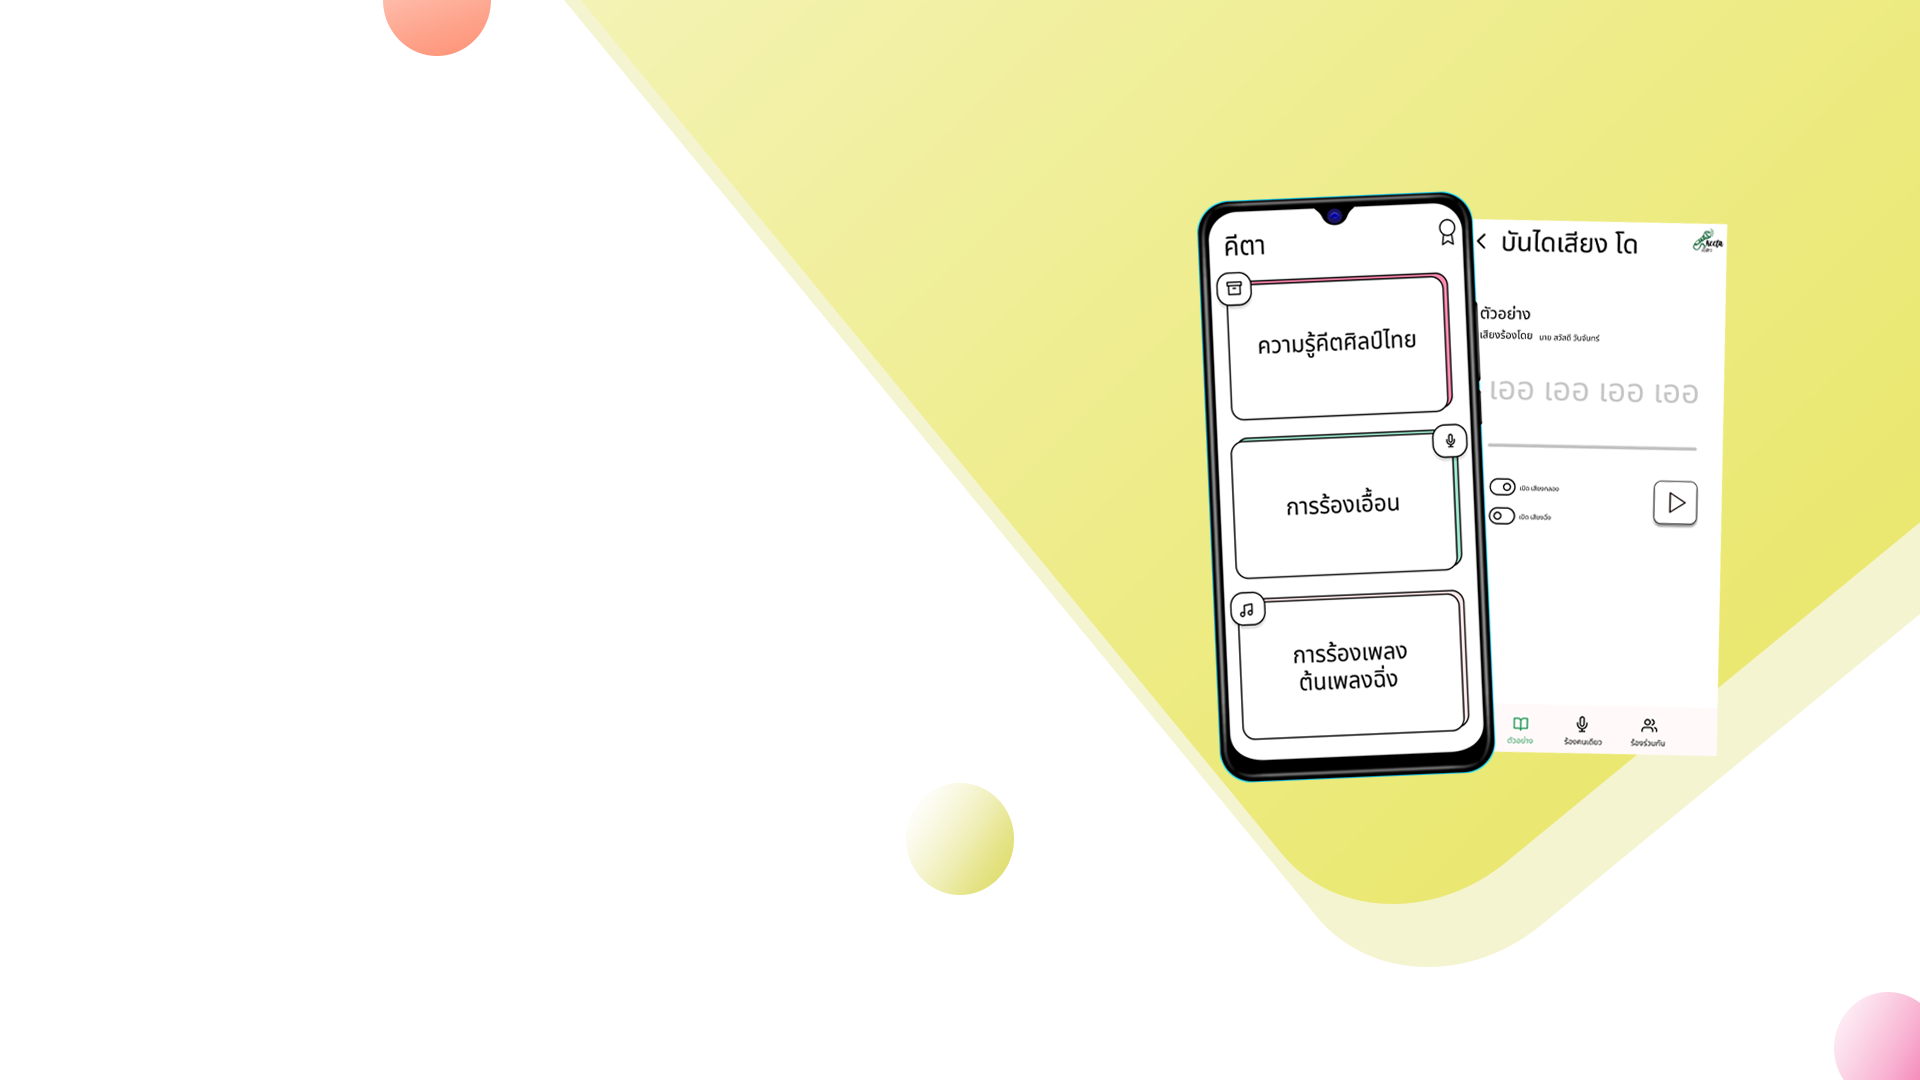
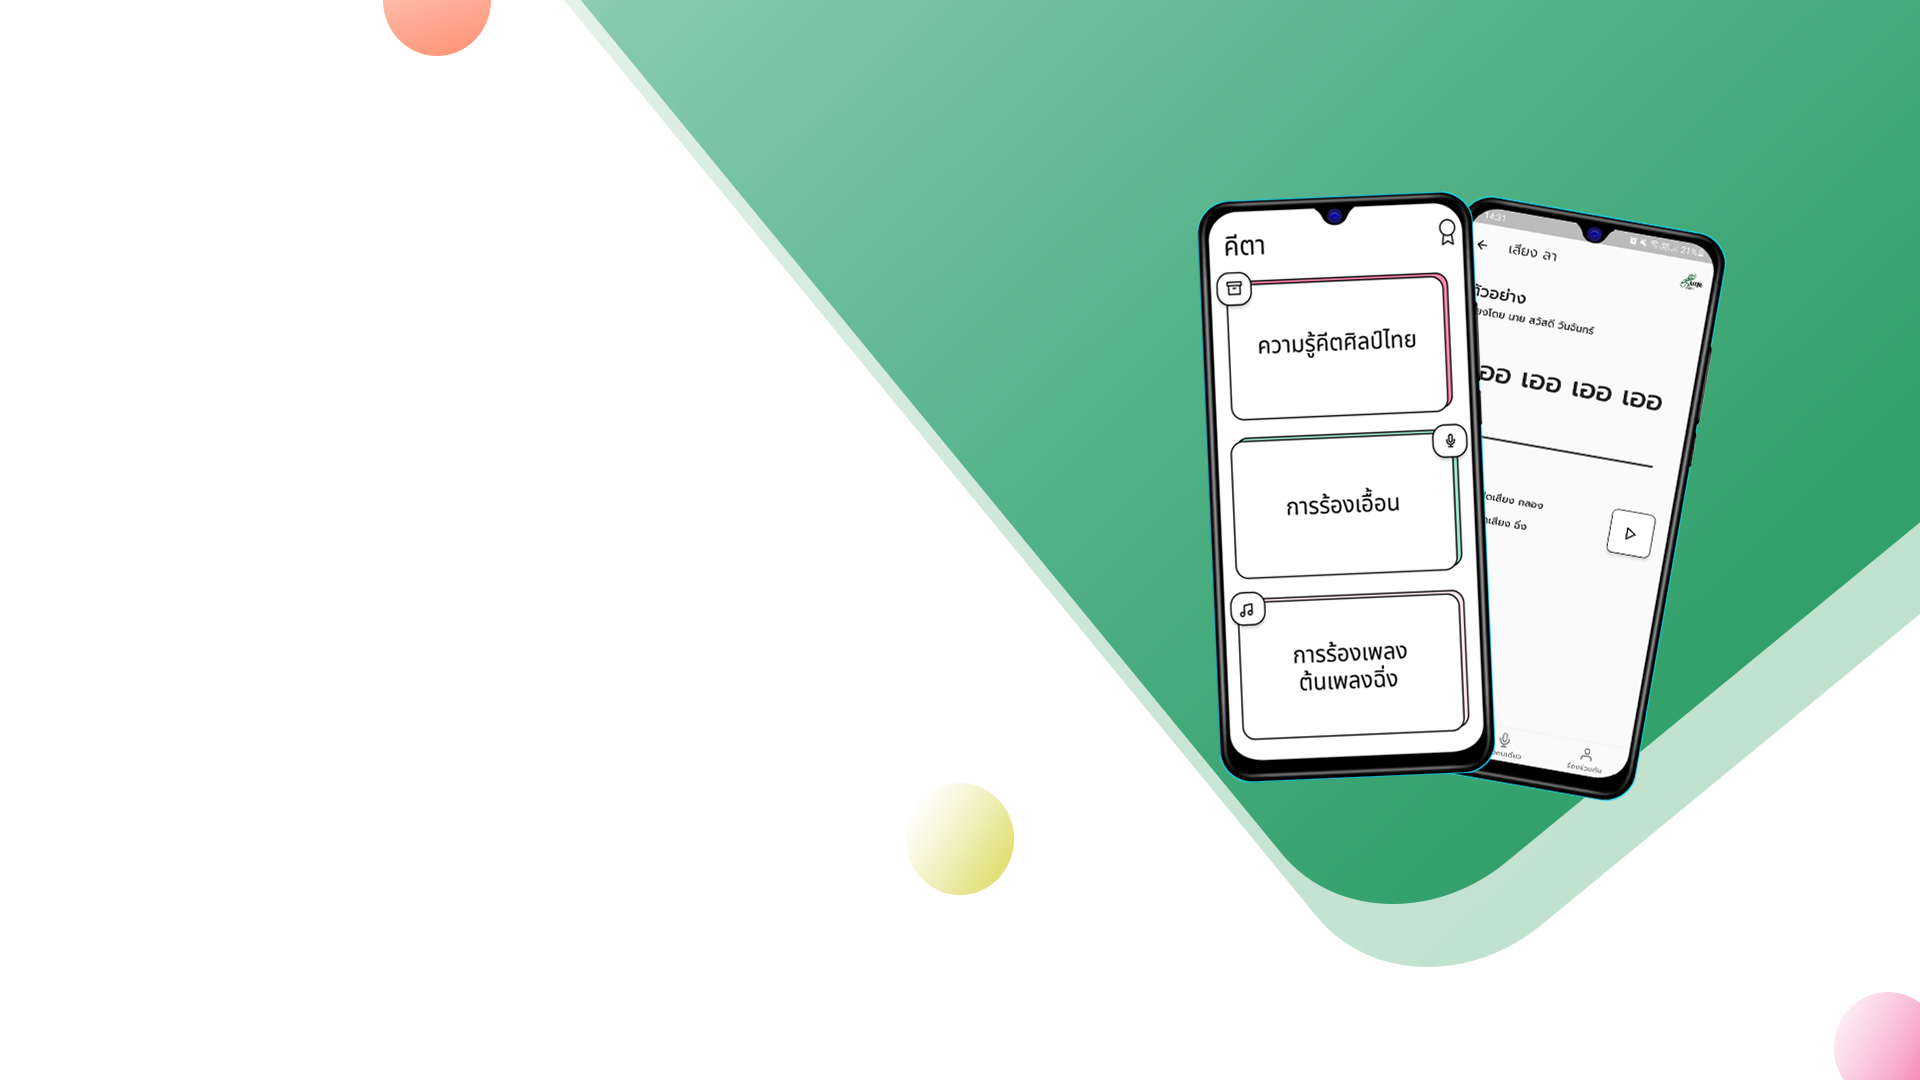
update website

Changed region(s): [[0.2812, 0.0, 1.0, 0.9167]]

diff --git a/index.html b/index.html
@@ -43,27 +43,27 @@
             <div class="box-container">
                 <div class="box"> 
                     <div class="feat-icon">
-                    <i class='bx bxs-music bx-flip-horizontal bx-tada bx-lg'></i></div>
+                    <i class='bx bxs-music bx-flip-horizontal bx-tada bx-md'></i></div>
                     <h3 class="feature-h3">เปิดฟังได้ทุกที่ทุกเวลา</h3>
-                    <p class="box-text">ด้วยแอปนี้จะทำให้คุณสามารถฟังการขับร้องเพลงไทยจากแอพพลิเคชั่นได้เลย</p>
+                    <p class="box-text">คุณสามารถฟังการขับร้องเพลงไทยจากแอพพลิเคชั่นได้เลย</p>
                 </div>
                 <div class="box">  
                     <div class="feat-icon">
-                    <i class='bx bx-list-check bx-tada bx-lg'></i></div> 
+                    <i class='bx bx-list-check bx-tada bx-md'></i></div> 
                     <h3 class="feature-h3">ความถูกต้องของเนื้อหา</h3>
                     <p class="box-text">เนื้อหาของเราได้รับการตรวจสอบอย่างถูกต้อง เน้นข้อมูลจริงๆ ในปัจุบัน</p>
                 </div>
                 <div class="box">     
                     <div class="feat-icon">
-                    <i class='bx bx-album bx-spin bx-lg'></i></div>
-                    <h3 class="feature-h3">ระบบบันทึกเสียง</h3>
-                    <p class="box-text">เพิ่มระบบบันทึกเสียงที่ขับร้อง และยังสามารถเอามาเปิดฟังอีกครั้งได้</p>
+                    <i class='bx bxs-hand-up bx-flashing bx-md'></i></div>
+                    <h3 class="feature-h3">ระบบการสลับเสียง</h3>
+                    <p class="box-text">สามารถเปลี่ยนโหมดที่จะฟังเป็นเสียงกลอง เสียงฉิ่ง หรือเสียงต้นฉบับได้</p>
                 </div>
                 <div class="box">     
                     <div class="feat-icon">
-                    <i class='bx bx-math bx-tada bx-lg'></i></div>
-                    <h3 class="feature-h3">ระบบทดสอบการขับร้องเพลง</h3>
-                    <p class="box-text">สามารถทดลองขับร้องเพลงไทย ได้ด้วยตัวเองด้วยเพลง ตับต้นเพลงฉิ่งสามชั้น</p>
+                    <i class='bx bxs-microphone-alt bx-tada bx-md'></i></div>
+                    <h3 class="feature-h3">ระบบร้องคาราโอเกะ</h3>
+                    <p class="box-text">คุณสามารถฟังเพลงไทยแล้วลองร้องด้วยตัวเอง หรือจะร้องร่วมกันก็ยังได้</p>
                 </div>
             </div>
             </div>
@@ -74,6 +74,7 @@
           <h1 class="feature-h1" style="margin-bottom: 2%;"> วิธีการติดตั้ง </h1>
           <img src="src/todownload.png" class="to-download">
         </div>
+        <div class="download-table">
         <table>
             <div class="tab-text">
             <p>ดาวน์โหลด</p></div>
@@ -94,7 +95,8 @@
             </tbody>
             </div>
           </table>
-
+          </div>
+        
         <footer>
             <div class="footer-bottom">
                 <div class="footer-site-info">COPYRIGHT © TWEED | 2022</div>

diff --git a/style.css b/style.css
@@ -33,7 +33,7 @@ header {
 @media (min-width: 550px) {
   header {
     justify-content: left;
-    box-shadow: 0px 5px 10px #fe8e6f6e;
+    /* box-shadow: 0px 5px 10px #2b9a5b7e; */
     height: 10vh;
   }
 }
@@ -189,9 +189,9 @@ header {
 .btn {
   background-image: linear-gradient(
     to right,
-    #fe8d6f 0%,
-    #fe8d6f 31%,
-    #cbad6d 60%
+    #2b9a5c 0%,
+    #2b9a5c 31%,
+    #2b9a5bad 90%
   );
   /* background-color: #fd4179; */
   border: none;
@@ -357,7 +357,7 @@ header {
   font-size: 10px;
   margin-top: 1%;
   text-align: center;
-  color: #fdc453;
+  color: #fe8d6f;
 }
 
 @media (min-width: 550px) {
@@ -423,13 +423,14 @@ header {
 }
 
 .box {
-  background-color: white;
-  background-size: 80%;
-  margin: 12px 10px;
-  width: calc(40% / 1);
+  background-color: rgb(255, 255, 255);
+  background-size: 100%;
+  margin: 13px 10px;
+  width: calc(50% / 1 - 20px);
+  /* width: 100% - 100px; */
   text-align: center;
   border-radius: 20px;
-  padding: 20px 20px;
+  padding: 30px 30px;
   box-shadow: 0 5px 20px rgba(0, 0, 0, 0.12);
   cursor: default;
   transition: all 0.4s ease;
@@ -451,7 +452,7 @@ header {
 }
 
 .feat-icon {
-  color: #fdc453;
+  color: #fe8d6f;
 }
 
 @media (min-width: 550px) {
@@ -515,7 +516,7 @@ header {
 }
 
 .info-sub {
-  height: 50vh;
+  margin-bottom: 3vh;
   text-align: center;
 }
 @media (min-width: 550px) {
@@ -527,7 +528,8 @@ header {
 .box-2 {
   align-items: center;
   margin: 2px 1px;
-  width: calc(50% / 1 - 2px);
+  width: 100% - 200px;
+  /* width: calc(50% / 1 - 2px); */
   border-radius: 20px;
   padding: 18px 18px;
   box-shadow: 0 5px 10px rgba(0, 0, 0, 0.12);
@@ -823,7 +825,7 @@ td {
 }
 
 .btn-5 {
-  background-color: #fdc453;
+  background-color: #fe8d6f;
   border: none;
   border-radius: 50px;
   color: white;
@@ -843,7 +845,7 @@ td {
 
 /* Darker background on mouse-over */
 .btn-5:hover {
-  background-color: #e4a41c;
+  background-color: rgb(253, 159, 83);
 }
 
 .btn-5-dis {
